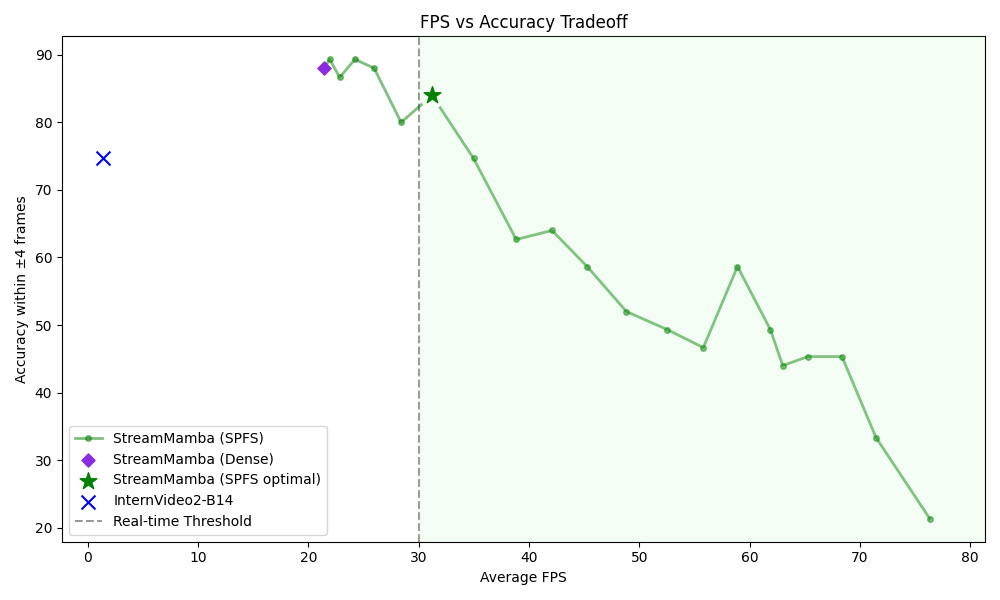
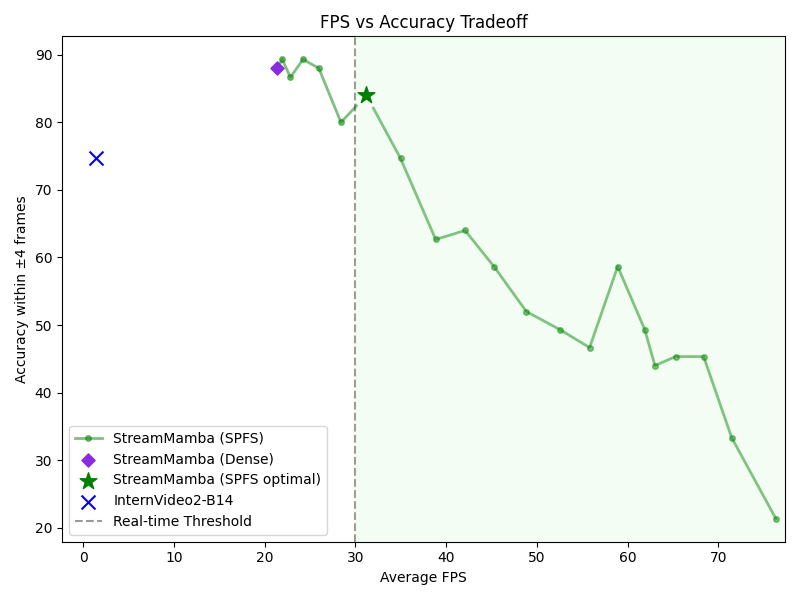
Resize figure

diff --git a/InternVideo2/multi_modality/scripts/benchmark/plot_fps_accuracy.py b/InternVideo2/multi_modality/scripts/benchmark/plot_fps_accuracy.py
@@ -84,7 +84,7 @@ def main(results_root):
             optimal_fps = fps
             optimal_acc = acc
 
-    plt.figure(figsize=(10, 6))
+    plt.figure(figsize=(8, 6))
 
     # Plot all SPFS line (including Dense and Optimal)
     plt.plot(spfs_fps, spfs_acc, 'g-', alpha=0.5, linewidth=2, marker='o', markerfacecolor='green', markersize=4, label='StreamMamba (SPFS)')
@@ -107,7 +107,7 @@ def main(results_root):
 
     plt.axvline(x=30, color='black', linestyle='--', label='Real-time Threshold', alpha=0.4, zorder=8)
 
-    max_fps = max([x[0] for x in data]) + 5
+    max_fps = max([x[0] for x in data]) + 1
 
     xmin_current = plt.xlim()[0]
     plt.xlim(xmin_current, max_fps)
